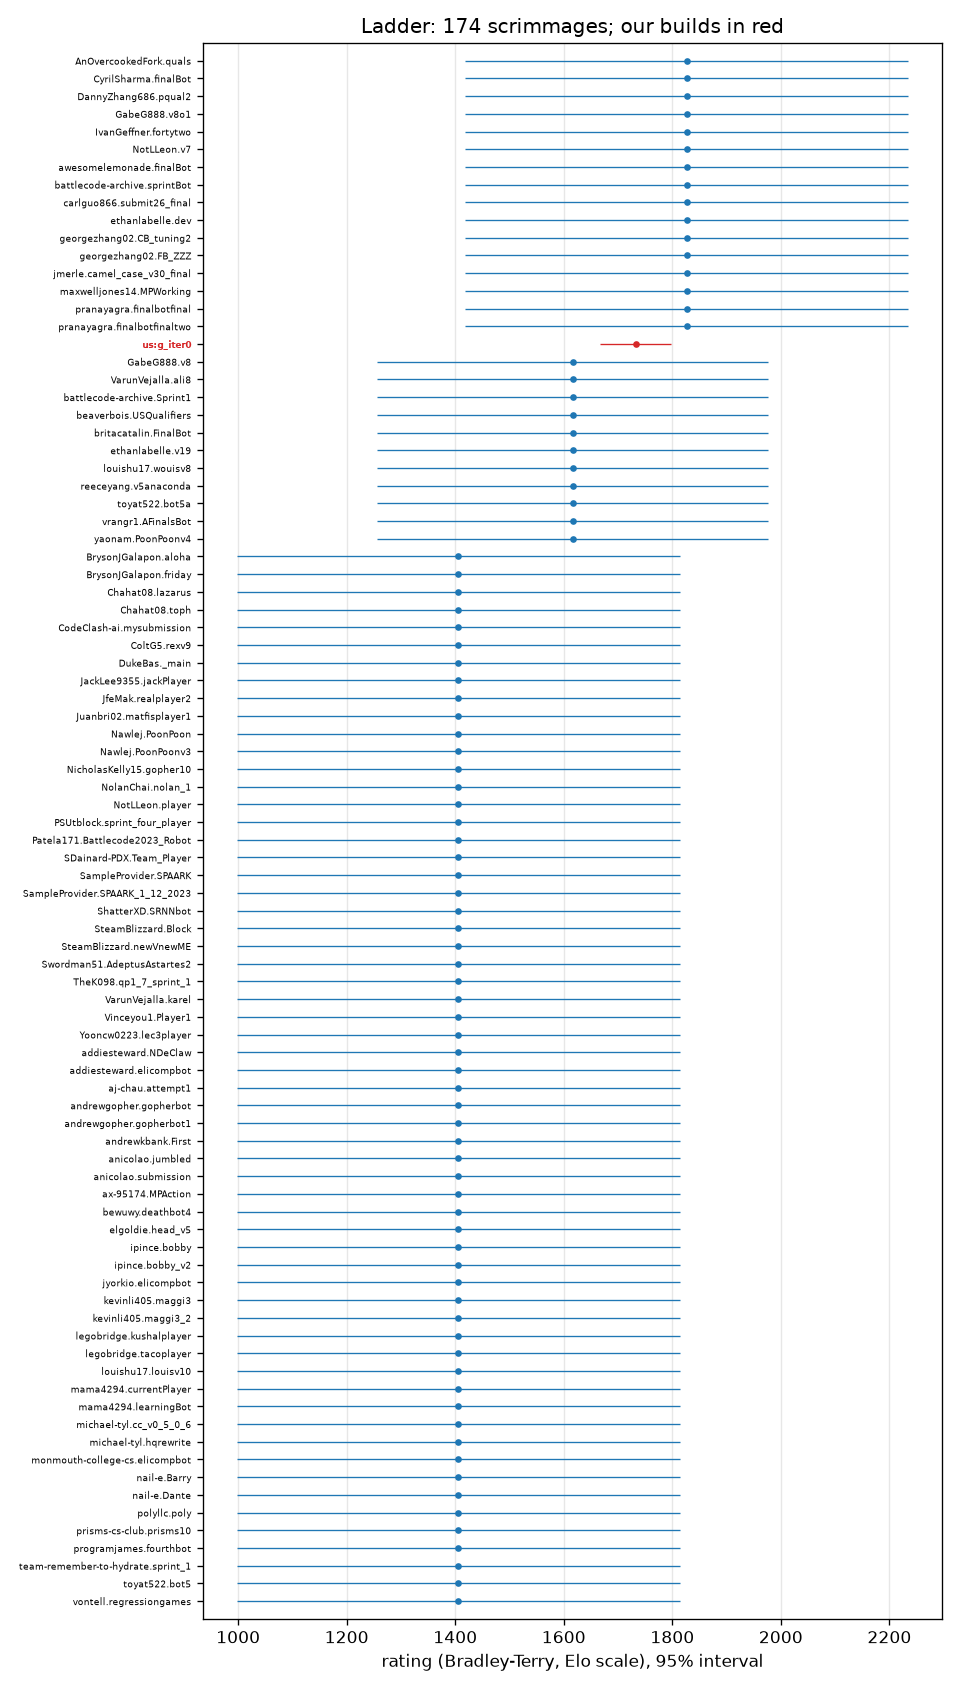
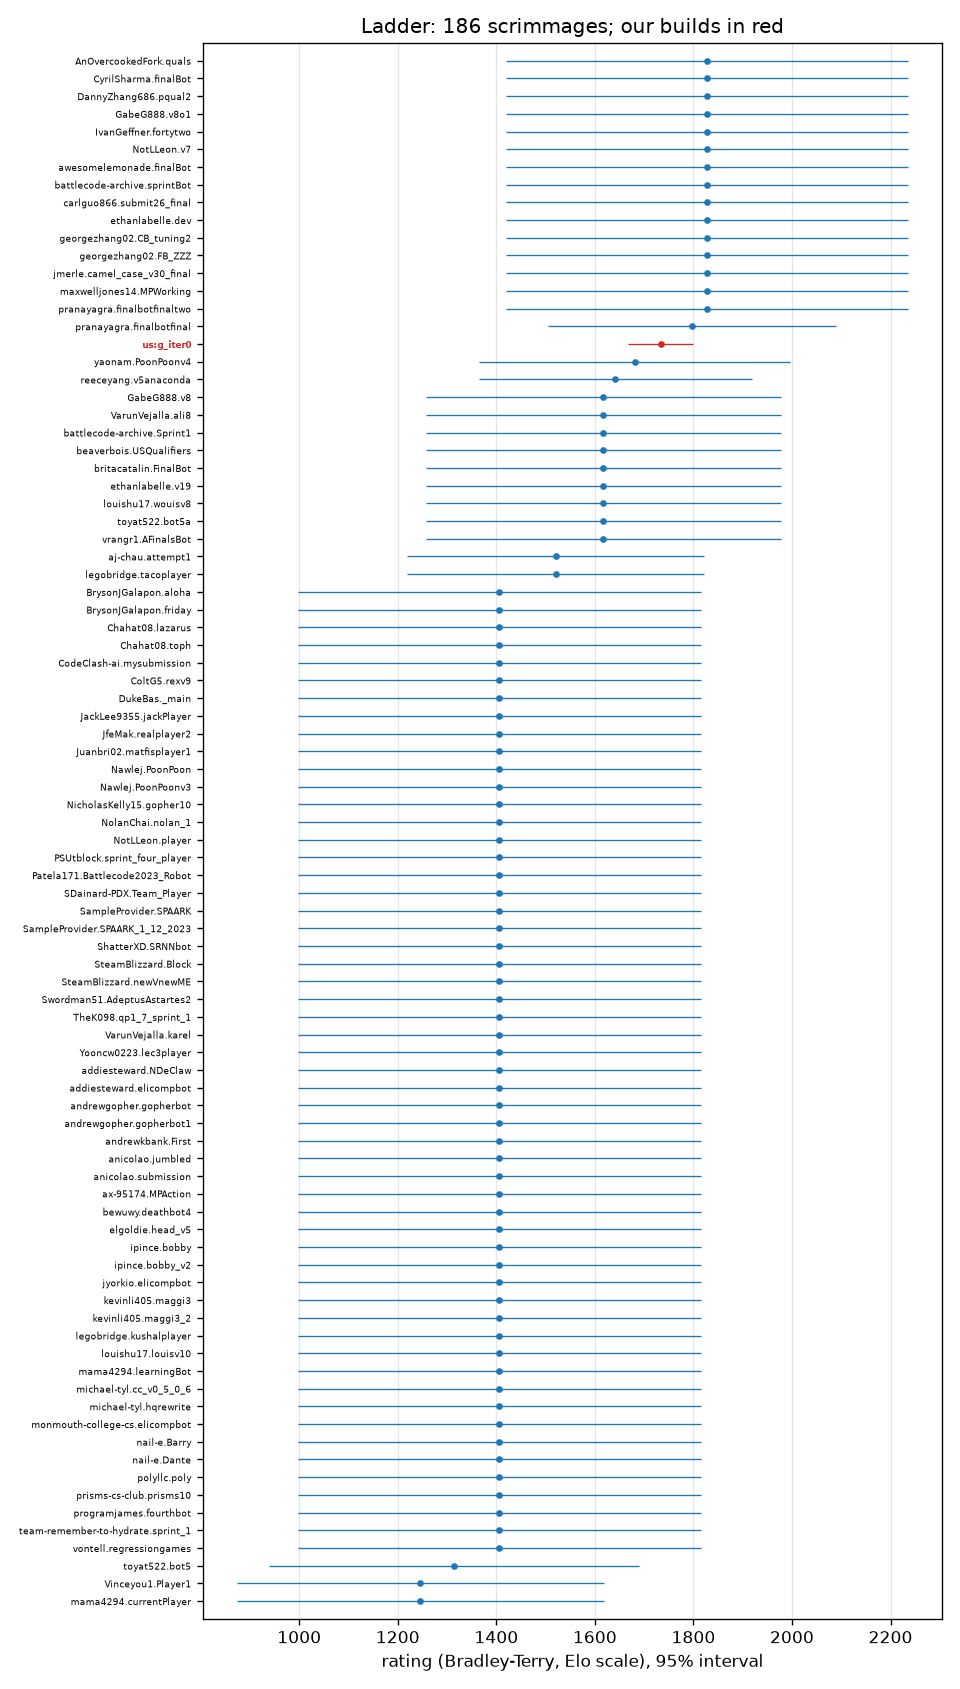
Ladder: first replica games exported; elo.py text no longer cites another year's prompts
Claude-Session: https://claude.ai/code/session_01HeQTZ8pAGBm9fcfH4KKbEg

diff --git a/tools/elo.py b/tools/elo.py
@@ -21,7 +21,7 @@ ap.add_argument('--established', type=int, default=0,
 ap.add_argument('--challenge', type=int, default=0,
                 help='the N bots that beat us at least half the time, fewest games against us first, then highest rating')
 ap.add_argument('--band', type=int, default=0,
-                help='the N rated bots nearest to us in rating on EITHER side: the graded pool (owner, 2026-09-24, PROMPTS 8-9)')
+                help='the N rated bots nearest to us in rating on EITHER side: the graded pool (slightly better and slightly worse)')
 ap.add_argument('--quiet', action='store_true'); a = ap.parse_args()
 rows = elolib.load(); R, SE, games, wins = elolib.fit(rows)
 bots = elolib.ladder_bots()
@@ -63,8 +63,7 @@ if a.build:
           f"rank {rank.get(p_, '-')} of {len(table)}; expected score vs the {len(bots)}-bot field {elolib.field_score(R, p_, bots):.1%}")
     raise SystemExit
 ndist = len(elolib.dedupe(rows))
-# Each opponent's record (PROMPTS 53-55, revised by PROMPTS 181 below). RUN_MIN marks a thin record: a 240-game band run
-# gives each of its 8 bots 30 games (+-18 points at 95%); the seeded band seeds give the upper tier 24 each.
+# Each opponent's record. RUN_MIN marks a thin record: 30 games pin a win rate to about +-18 points at 95%.
 RUN_MIN = 30
 last_seen = {}
 for i, r in enumerate(rows):
@@ -77,9 +76,8 @@ for r in elolib.dedupe(rows):
     if elolib.is_ours(ta) == elolib.is_ours(tb): continue
     us_, opp = (ta, tb) if elolib.is_ours(ta) else (tb, ta)
     vs[us_, opp][1] += 1; vs[us_, opp][0] += (r['winner'] == 'A') == (opp == ta)
-# PROMPTS 181 (2026-10-05): the column showed g_iter1's record against most of the upper tier, because later builds met
-# each of those bots only 24 times (the band seeds) and fell under RUN_MIN. Now: the INCUMBENT's record against the bot
-# whatever the count (fewer than RUN_MIN games marked *), else the most recent of our builds that played it.
+# The INCUMBENT's record against the bot whatever the count (fewer than RUN_MIN games marked *), else the most recent of
+# our builds that played it (a record by an old build against a bot later builds met only a few times misleads).
 incumbent = (elolib.accepted_builds(ours) or [None])[-1]
 def recent_run(bot):
     order = ([incumbent] if incumbent else []) + [p for p in recent if p != incumbent]
@@ -90,10 +88,12 @@ def recent_run(bot):
 def higher_field(p):   # expected score against only the ladder bots rated above p
     up = [b for b in rated if R[b] > R[p]]
     return f"{elolib.field_score(R, p, up):.1%} (vs {len(up)})" if up else '-'
+n_ours = sum(1 for r in rows if elolib.is_ours(r['teamA']) or elolib.is_ours(r['teamB']))
 lines = ["# Ladder", "",
-         f"{len(rows)} scrimmages (ours only), {ndist} distinct (a repeated pairing with the same seed replays the same game and counts once), "
+         f"{len(rows)} games ({n_ours} ours, {len(rows) - n_ours} between field bots on the ladder replica), {ndist} distinct "
+         f"(a repeated pairing on the same map, orientation and seed replays the same game and counts once), "
          f"rated by a batch Bradley-Terry fit on the Elo scale (`tools/elolib.py`), each pair of players counting at most "
-         f"{elolib.PAIR_CAP} games (owner PROMPTS 191: the target filler plays one opponent thousands of times); "
+         f"{elolib.PAIR_CAP} games (so one heavily repeated pairing cannot pull the fit); "
          f"each of our builds is its own player. {len(rated)} of {len(bots)} ladder bots met.", "",
          "Our builds (rating +- 95%; field score = expected score against every ladder bot, one game each; "
          "vs higher = the same against only the ladder bots rated above the build, with their count):", "",

diff --git a/progress/ELO.md b/progress/ELO.md
@@ -1,76 +1,76 @@
 # Ladder
 
-174 scrimmages (ours only), 174 distinct (a repeated pairing with the same seed replays the same game and counts once), rated by a batch Bradley-Terry fit on the Elo scale (`tools/elolib.py`), each pair of players counting at most 200 games (owner PROMPTS 191: the target filler plays one opponent thousands of times); each of our builds is its own player. 87 of 87 ladder bots met.
+186 games (174 ours, 12 between field bots on the ladder replica), 186 distinct (a repeated pairing on the same map, orientation and seed replays the same game and counts once), rated by a batch Bradley-Terry fit on the Elo scale (`tools/elolib.py`), each pair of players counting at most 200 games (so one heavily repeated pairing cannot pull the fit); each of our builds is its own player. 87 of 87 ladder bots met.
 
 Our builds (rating +- 95%; field score = expected score against every ladder bot, one game each; vs higher = the same against only the ladder bots rated above the build, with their count):
 
 | build | rating | rank | games | record | field score | vs higher |
 |---|---|---|---|---|---|---|
-| g_iter0 | 1732 +- 66 | 17 of 88 | 174 | 131-43 | 75.0% | 36.8% (vs 16) |
+| g_iter0 | 1734 +- 66 | 17 of 88 | 174 | 131-43 | 75.0% | 37.1% (vs 16) |
 
 Our record = OUR win rate (our W-L) against the bot by the incumbent (g_iter0), whatever the count; * marks fewer than 30 games (+- 18 points at 95% for 30 games, +- 20 for 24); a bot the incumbent never met shows the most recent of our builds that did; blank if none has.
 
 | rank | player | rating | +- 95% | games | W-L | our record |
 |---|---|---|---|---|---|---|
-| 1 | AnOvercookedFork.quals | 1827 | 409 | 2 | 2-0 | 0% (g_iter0 0-2*) |
-| 2 | CyrilSharma.finalBot | 1827 | 409 | 2 | 2-0 | 0% (g_iter0 0-2*) |
-| 3 | DannyZhang686.pqual2 | 1827 | 409 | 2 | 2-0 | 0% (g_iter0 0-2*) |
-| 4 | GabeG888.v8o1 | 1827 | 409 | 2 | 2-0 | 0% (g_iter0 0-2*) |
-| 5 | IvanGeffner.fortytwo | 1827 | 409 | 2 | 2-0 | 0% (g_iter0 0-2*) |
-| 6 | NotLLeon.v7 | 1827 | 409 | 2 | 2-0 | 0% (g_iter0 0-2*) |
-| 7 | awesomelemonade.finalBot | 1827 | 409 | 2 | 2-0 | 0% (g_iter0 0-2*) |
-| 8 | battlecode-archive.sprintBot | 1827 | 409 | 2 | 2-0 | 0% (g_iter0 0-2*) |
-| 9 | carlguo866.submit26_final | 1827 | 409 | 2 | 2-0 | 0% (g_iter0 0-2*) |
-| 10 | ethanlabelle.dev | 1827 | 409 | 2 | 2-0 | 0% (g_iter0 0-2*) |
-| 11 | georgezhang02.CB_tuning2 | 1827 | 409 | 2 | 2-0 | 0% (g_iter0 0-2*) |
-| 12 | georgezhang02.FB_ZZZ | 1827 | 409 | 2 | 2-0 | 0% (g_iter0 0-2*) |
-| 13 | jmerle.camel_case_v30_final | 1827 | 409 | 2 | 2-0 | 0% (g_iter0 0-2*) |
-| 14 | maxwelljones14.MPWorking | 1827 | 409 | 2 | 2-0 | 0% (g_iter0 0-2*) |
-| 15 | pranayagra.finalbotfinal | 1827 | 409 | 2 | 2-0 | 0% (g_iter0 0-2*) |
-| 16 | pranayagra.finalbotfinaltwo | 1827 | 409 | 2 | 2-0 | 0% (g_iter0 0-2*) |
-| 17 | **us:g_iter0** | 1732 | 66 | 174 | 131-43 |  |
-| 18 | GabeG888.v8 | 1616 | 360 | 2 | 1-1 | 50% (g_iter0 1-1*) |
-| 19 | VarunVejalla.ali8 | 1616 | 360 | 2 | 1-1 | 50% (g_iter0 1-1*) |
-| 20 | battlecode-archive.Sprint1 | 1616 | 360 | 2 | 1-1 | 50% (g_iter0 1-1*) |
-| 21 | beaverbois.USQualifiers | 1616 | 360 | 2 | 1-1 | 50% (g_iter0 1-1*) |
-| 22 | britacatalin.FinalBot | 1616 | 360 | 2 | 1-1 | 50% (g_iter0 1-1*) |
-| 23 | ethanlabelle.v19 | 1616 | 360 | 2 | 1-1 | 50% (g_iter0 1-1*) |
-| 24 | louishu17.wouisv8 | 1616 | 360 | 2 | 1-1 | 50% (g_iter0 1-1*) |
-| 25 | reeceyang.v5anaconda | 1616 | 360 | 2 | 1-1 | 50% (g_iter0 1-1*) |
-| 26 | toyat522.bot5a | 1616 | 360 | 2 | 1-1 | 50% (g_iter0 1-1*) |
-| 27 | vrangr1.AFinalsBot | 1616 | 360 | 2 | 1-1 | 50% (g_iter0 1-1*) |
-| 28 | yaonam.PoonPoonv4 | 1616 | 360 | 2 | 1-1 | 50% (g_iter0 1-1*) |
-| 29 | BrysonJGalapon.aloha | 1406 | 409 | 2 | 0-2 | 100% (g_iter0 2-0*) |
-| 30 | BrysonJGalapon.friday | 1406 | 409 | 2 | 0-2 | 100% (g_iter0 2-0*) |
-| 31 | Chahat08.lazarus | 1406 | 409 | 2 | 0-2 | 100% (g_iter0 2-0*) |
-| 32 | Chahat08.toph | 1406 | 409 | 2 | 0-2 | 100% (g_iter0 2-0*) |
-| 33 | CodeClash-ai.mysubmission | 1406 | 409 | 2 | 0-2 | 100% (g_iter0 2-0*) |
-| 34 | ColtG5.rexv9 | 1406 | 409 | 2 | 0-2 | 100% (g_iter0 2-0*) |
-| 35 | DukeBas._main | 1406 | 409 | 2 | 0-2 | 100% (g_iter0 2-0*) |
-| 36 | JackLee9355.jackPlayer | 1406 | 409 | 2 | 0-2 | 100% (g_iter0 2-0*) |
-| 37 | JfeMak.realplayer2 | 1406 | 409 | 2 | 0-2 | 100% (g_iter0 2-0*) |
-| 38 | Juanbri02.matfisplayer1 | 1406 | 409 | 2 | 0-2 | 100% (g_iter0 2-0*) |
-| 39 | Nawlej.PoonPoon | 1406 | 409 | 2 | 0-2 | 100% (g_iter0 2-0*) |
-| 40 | Nawlej.PoonPoonv3 | 1406 | 409 | 2 | 0-2 | 100% (g_iter0 2-0*) |
-| 41 | NicholasKelly15.gopher10 | 1406 | 409 | 2 | 0-2 | 100% (g_iter0 2-0*) |
-| 42 | NolanChai.nolan_1 | 1406 | 409 | 2 | 0-2 | 100% (g_iter0 2-0*) |
-| 43 | NotLLeon.player | 1406 | 409 | 2 | 0-2 | 100% (g_iter0 2-0*) |
-| 44 | PSUtblock.sprint_four_player | 1406 | 409 | 2 | 0-2 | 100% (g_iter0 2-0*) |
-| 45 | Patela171.Battlecode2023_Robot | 1406 | 409 | 2 | 0-2 | 100% (g_iter0 2-0*) |
-| 46 | SDainard-PDX.Team_Player | 1406 | 409 | 2 | 0-2 | 100% (g_iter0 2-0*) |
-| 47 | SampleProvider.SPAARK | 1406 | 409 | 2 | 0-2 | 100% (g_iter0 2-0*) |
-| 48 | SampleProvider.SPAARK_1_12_2023 | 1406 | 409 | 2 | 0-2 | 100% (g_iter0 2-0*) |
-| 49 | ShatterXD.SRNNbot | 1406 | 409 | 2 | 0-2 | 100% (g_iter0 2-0*) |
-| 50 | SteamBlizzard.Block | 1406 | 409 | 2 | 0-2 | 100% (g_iter0 2-0*) |
-| 51 | SteamBlizzard.newVnewME | 1406 | 409 | 2 | 0-2 | 100% (g_iter0 2-0*) |
-| 52 | Swordman51.AdeptusAstartes2 | 1406 | 409 | 2 | 0-2 | 100% (g_iter0 2-0*) |
-| 53 | TheK098.qp1_7_sprint_1 | 1406 | 409 | 2 | 0-2 | 100% (g_iter0 2-0*) |
-| 54 | VarunVejalla.karel | 1406 | 409 | 2 | 0-2 | 100% (g_iter0 2-0*) |
-| 55 | Vinceyou1.Player1 | 1406 | 409 | 2 | 0-2 | 100% (g_iter0 2-0*) |
-| 56 | Yooncw0223.lec3player | 1406 | 409 | 2 | 0-2 | 100% (g_iter0 2-0*) |
-| 57 | addiesteward.NDeClaw | 1406 | 409 | 2 | 0-2 | 100% (g_iter0 2-0*) |
-| 58 | addiesteward.elicompbot | 1406 | 409 | 2 | 0-2 | 100% (g_iter0 2-0*) |
-| 59 | aj-chau.attempt1 | 1406 | 409 | 2 | 0-2 | 100% (g_iter0 2-0*) |
+| 1 | AnOvercookedFork.quals | 1828 | 409 | 2 | 2-0 | 0% (g_iter0 0-2*) |
+| 2 | CyrilSharma.finalBot | 1828 | 409 | 2 | 2-0 | 0% (g_iter0 0-2*) |
+| 3 | DannyZhang686.pqual2 | 1828 | 409 | 2 | 2-0 | 0% (g_iter0 0-2*) |
+| 4 | GabeG888.v8o1 | 1828 | 409 | 2 | 2-0 | 0% (g_iter0 0-2*) |
+| 5 | IvanGeffner.fortytwo | 1828 | 409 | 2 | 2-0 | 0% (g_iter0 0-2*) |
+| 6 | NotLLeon.v7 | 1828 | 409 | 2 | 2-0 | 0% (g_iter0 0-2*) |
+| 7 | awesomelemonade.finalBot | 1828 | 409 | 2 | 2-0 | 0% (g_iter0 0-2*) |
+| 8 | battlecode-archive.sprintBot | 1828 | 409 | 2 | 2-0 | 0% (g_iter0 0-2*) |
+| 9 | carlguo866.submit26_final | 1828 | 409 | 2 | 2-0 | 0% (g_iter0 0-2*) |
+| 10 | ethanlabelle.dev | 1828 | 409 | 2 | 2-0 | 0% (g_iter0 0-2*) |
+| 11 | georgezhang02.CB_tuning2 | 1828 | 409 | 2 | 2-0 | 0% (g_iter0 0-2*) |
+| 12 | georgezhang02.FB_ZZZ | 1828 | 409 | 2 | 2-0 | 0% (g_iter0 0-2*) |
+| 13 | jmerle.camel_case_v30_final | 1828 | 409 | 2 | 2-0 | 0% (g_iter0 0-2*) |
+| 14 | maxwelljones14.MPWorking | 1828 | 409 | 2 | 2-0 | 0% (g_iter0 0-2*) |
+| 15 | pranayagra.finalbotfinaltwo | 1828 | 409 | 2 | 2-0 | 0% (g_iter0 0-2*) |
+| 16 | pranayagra.finalbotfinal | 1797 | 292 | 5 | 4-1 | 0% (g_iter0 0-2*) |
+| 17 | **us:g_iter0** | 1734 | 66 | 174 | 131-43 |  |
+| 18 | yaonam.PoonPoonv4 | 1680 | 316 | 5 | 4-1 | 50% (g_iter0 1-1*) |
+| 19 | reeceyang.v5anaconda | 1642 | 277 | 5 | 2-3 | 50% (g_iter0 1-1*) |
+| 20 | GabeG888.v8 | 1617 | 360 | 2 | 1-1 | 50% (g_iter0 1-1*) |
+| 21 | VarunVejalla.ali8 | 1617 | 360 | 2 | 1-1 | 50% (g_iter0 1-1*) |
+| 22 | battlecode-archive.Sprint1 | 1617 | 360 | 2 | 1-1 | 50% (g_iter0 1-1*) |
+| 23 | beaverbois.USQualifiers | 1617 | 360 | 2 | 1-1 | 50% (g_iter0 1-1*) |
+| 24 | britacatalin.FinalBot | 1617 | 360 | 2 | 1-1 | 50% (g_iter0 1-1*) |
+| 25 | ethanlabelle.v19 | 1617 | 360 | 2 | 1-1 | 50% (g_iter0 1-1*) |
+| 26 | louishu17.wouisv8 | 1617 | 360 | 2 | 1-1 | 50% (g_iter0 1-1*) |
+| 27 | toyat522.bot5a | 1617 | 360 | 2 | 1-1 | 50% (g_iter0 1-1*) |
+| 28 | vrangr1.AFinalsBot | 1617 | 360 | 2 | 1-1 | 50% (g_iter0 1-1*) |
+| 29 | aj-chau.attempt1 | 1520 | 302 | 5 | 3-2 | 100% (g_iter0 2-0*) |
+| 30 | legobridge.tacoplayer | 1520 | 302 | 5 | 3-2 | 100% (g_iter0 2-0*) |
+| 31 | BrysonJGalapon.aloha | 1406 | 409 | 2 | 0-2 | 100% (g_iter0 2-0*) |
+| 32 | BrysonJGalapon.friday | 1406 | 409 | 2 | 0-2 | 100% (g_iter0 2-0*) |
+| 33 | Chahat08.lazarus | 1406 | 409 | 2 | 0-2 | 100% (g_iter0 2-0*) |
+| 34 | Chahat08.toph | 1406 | 409 | 2 | 0-2 | 100% (g_iter0 2-0*) |
+| 35 | CodeClash-ai.mysubmission | 1406 | 409 | 2 | 0-2 | 100% (g_iter0 2-0*) |
+| 36 | ColtG5.rexv9 | 1406 | 409 | 2 | 0-2 | 100% (g_iter0 2-0*) |
+| 37 | DukeBas._main | 1406 | 409 | 2 | 0-2 | 100% (g_iter0 2-0*) |
+| 38 | JackLee9355.jackPlayer | 1406 | 409 | 2 | 0-2 | 100% (g_iter0 2-0*) |
+| 39 | JfeMak.realplayer2 | 1406 | 409 | 2 | 0-2 | 100% (g_iter0 2-0*) |
+| 40 | Juanbri02.matfisplayer1 | 1406 | 409 | 2 | 0-2 | 100% (g_iter0 2-0*) |
+| 41 | Nawlej.PoonPoon | 1406 | 409 | 2 | 0-2 | 100% (g_iter0 2-0*) |
+| 42 | Nawlej.PoonPoonv3 | 1406 | 409 | 2 | 0-2 | 100% (g_iter0 2-0*) |
+| 43 | NicholasKelly15.gopher10 | 1406 | 409 | 2 | 0-2 | 100% (g_iter0 2-0*) |
+| 44 | NolanChai.nolan_1 | 1406 | 409 | 2 | 0-2 | 100% (g_iter0 2-0*) |
+| 45 | NotLLeon.player | 1406 | 409 | 2 | 0-2 | 100% (g_iter0 2-0*) |
+| 46 | PSUtblock.sprint_four_player | 1406 | 409 | 2 | 0-2 | 100% (g_iter0 2-0*) |
+| 47 | Patela171.Battlecode2023_Robot | 1406 | 409 | 2 | 0-2 | 100% (g_iter0 2-0*) |
+| 48 | SDainard-PDX.Team_Player | 1406 | 409 | 2 | 0-2 | 100% (g_iter0 2-0*) |
+| 49 | SampleProvider.SPAARK | 1406 | 409 | 2 | 0-2 | 100% (g_iter0 2-0*) |
+| 50 | SampleProvider.SPAARK_1_12_2023 | 1406 | 409 | 2 | 0-2 | 100% (g_iter0 2-0*) |
+| 51 | ShatterXD.SRNNbot | 1406 | 409 | 2 | 0-2 | 100% (g_iter0 2-0*) |
+| 52 | SteamBlizzard.Block | 1406 | 409 | 2 | 0-2 | 100% (g_iter0 2-0*) |
+| 53 | SteamBlizzard.newVnewME | 1406 | 409 | 2 | 0-2 | 100% (g_iter0 2-0*) |
+| 54 | Swordman51.AdeptusAstartes2 | 1406 | 409 | 2 | 0-2 | 100% (g_iter0 2-0*) |
+| 55 | TheK098.qp1_7_sprint_1 | 1406 | 409 | 2 | 0-2 | 100% (g_iter0 2-0*) |
+| 56 | VarunVejalla.karel | 1406 | 409 | 2 | 0-2 | 100% (g_iter0 2-0*) |
+| 57 | Yooncw0223.lec3player | 1406 | 409 | 2 | 0-2 | 100% (g_iter0 2-0*) |
+| 58 | addiesteward.NDeClaw | 1406 | 409 | 2 | 0-2 | 100% (g_iter0 2-0*) |
+| 59 | addiesteward.elicompbot | 1406 | 409 | 2 | 0-2 | 100% (g_iter0 2-0*) |
 | 60 | andrewgopher.gopherbot | 1406 | 409 | 2 | 0-2 | 100% (g_iter0 2-0*) |
 | 61 | andrewgopher.gopherbot1 | 1406 | 409 | 2 | 0-2 | 100% (g_iter0 2-0*) |
 | 62 | andrewkbank.First | 1406 | 409 | 2 | 0-2 | 100% (g_iter0 2-0*) |
@@ -85,18 +85,18 @@ Our record = OUR win rate (our W-L) against the bot by the incumbent (g_iter0), 
 | 71 | kevinli405.maggi3 | 1406 | 409 | 2 | 0-2 | 100% (g_iter0 2-0*) |
 | 72 | kevinli405.maggi3_2 | 1406 | 409 | 2 | 0-2 | 100% (g_iter0 2-0*) |
 | 73 | legobridge.kushalplayer | 1406 | 409 | 2 | 0-2 | 100% (g_iter0 2-0*) |
-| 74 | legobridge.tacoplayer | 1406 | 409 | 2 | 0-2 | 100% (g_iter0 2-0*) |
-| 75 | louishu17.louisv10 | 1406 | 409 | 2 | 0-2 | 100% (g_iter0 2-0*) |
-| 76 | mama4294.currentPlayer | 1406 | 409 | 2 | 0-2 | 100% (g_iter0 2-0*) |
-| 77 | mama4294.learningBot | 1406 | 409 | 2 | 0-2 | 100% (g_iter0 2-0*) |
-| 78 | michael-tyl.cc_v0_5_0_6 | 1406 | 409 | 2 | 0-2 | 100% (g_iter0 2-0*) |
-| 79 | michael-tyl.hqrewrite | 1406 | 409 | 2 | 0-2 | 100% (g_iter0 2-0*) |
-| 80 | monmouth-college-cs.elicompbot | 1406 | 409 | 2 | 0-2 | 100% (g_iter0 2-0*) |
-| 81 | nail-e.Barry | 1406 | 409 | 2 | 0-2 | 100% (g_iter0 2-0*) |
-| 82 | nail-e.Dante | 1406 | 409 | 2 | 0-2 | 100% (g_iter0 2-0*) |
-| 83 | polyllc.poly | 1406 | 409 | 2 | 0-2 | 100% (g_iter0 2-0*) |
-| 84 | prisms-cs-club.prisms10 | 1406 | 409 | 2 | 0-2 | 100% (g_iter0 2-0*) |
-| 85 | programjames.fourthbot | 1406 | 409 | 2 | 0-2 | 100% (g_iter0 2-0*) |
-| 86 | team-remember-to-hydrate.sprint_1 | 1406 | 409 | 2 | 0-2 | 100% (g_iter0 2-0*) |
-| 87 | toyat522.bot5 | 1406 | 409 | 2 | 0-2 | 100% (g_iter0 2-0*) |
-| 88 | vontell.regressiongames | 1406 | 409 | 2 | 0-2 | 100% (g_iter0 2-0*) |
+| 74 | louishu17.louisv10 | 1406 | 409 | 2 | 0-2 | 100% (g_iter0 2-0*) |
+| 75 | mama4294.learningBot | 1406 | 409 | 2 | 0-2 | 100% (g_iter0 2-0*) |
+| 76 | michael-tyl.cc_v0_5_0_6 | 1406 | 409 | 2 | 0-2 | 100% (g_iter0 2-0*) |
+| 77 | michael-tyl.hqrewrite | 1406 | 409 | 2 | 0-2 | 100% (g_iter0 2-0*) |
+| 78 | monmouth-college-cs.elicompbot | 1406 | 409 | 2 | 0-2 | 100% (g_iter0 2-0*) |
+| 79 | nail-e.Barry | 1406 | 409 | 2 | 0-2 | 100% (g_iter0 2-0*) |
+| 80 | nail-e.Dante | 1406 | 409 | 2 | 0-2 | 100% (g_iter0 2-0*) |
+| 81 | polyllc.poly | 1406 | 409 | 2 | 0-2 | 100% (g_iter0 2-0*) |
+| 82 | prisms-cs-club.prisms10 | 1406 | 409 | 2 | 0-2 | 100% (g_iter0 2-0*) |
+| 83 | programjames.fourthbot | 1406 | 409 | 2 | 0-2 | 100% (g_iter0 2-0*) |
+| 84 | team-remember-to-hydrate.sprint_1 | 1406 | 409 | 2 | 0-2 | 100% (g_iter0 2-0*) |
+| 85 | vontell.regressiongames | 1406 | 409 | 2 | 0-2 | 100% (g_iter0 2-0*) |
+| 86 | toyat522.bot5 | 1314 | 376 | 5 | 0-5 | 100% (g_iter0 2-0*) |
+| 87 | Vinceyou1.Player1 | 1245 | 372 | 5 | 0-5 | 100% (g_iter0 2-0*) |
+| 88 | mama4294.currentPlayer | 1245 | 372 | 5 | 0-5 | 100% (g_iter0 2-0*) |
